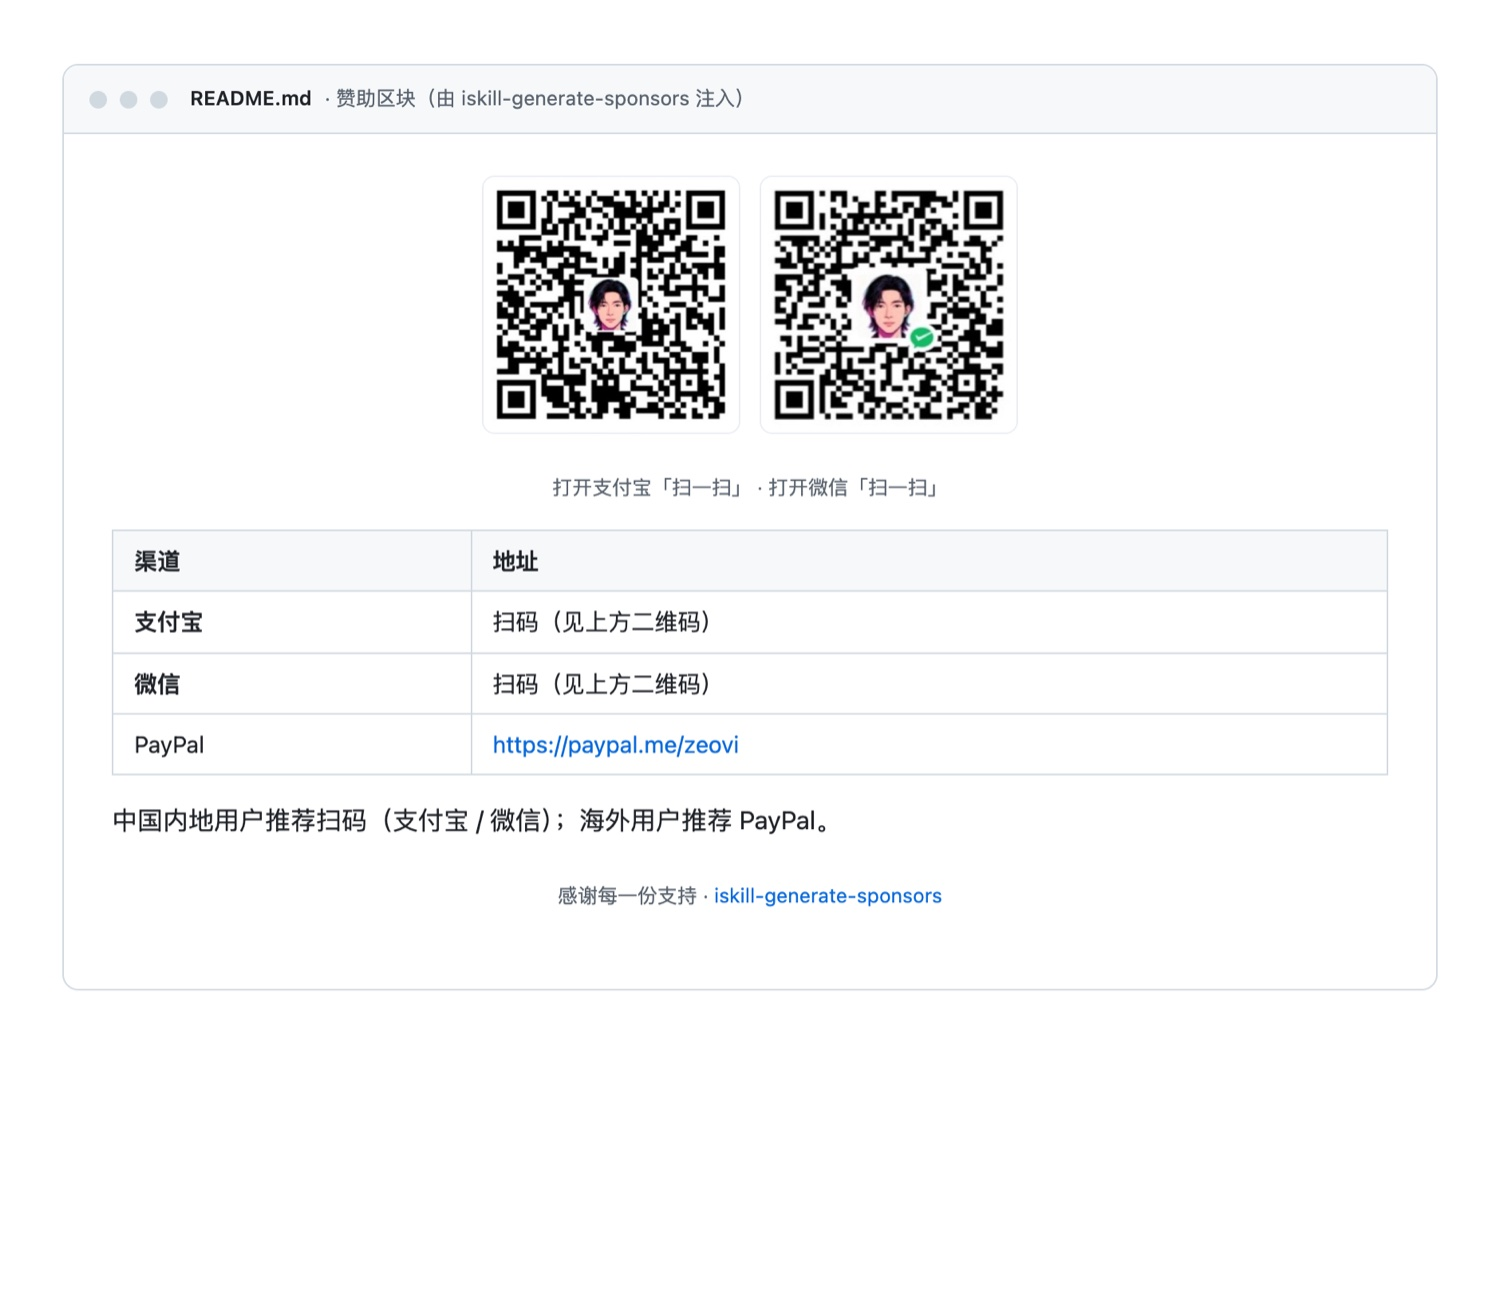
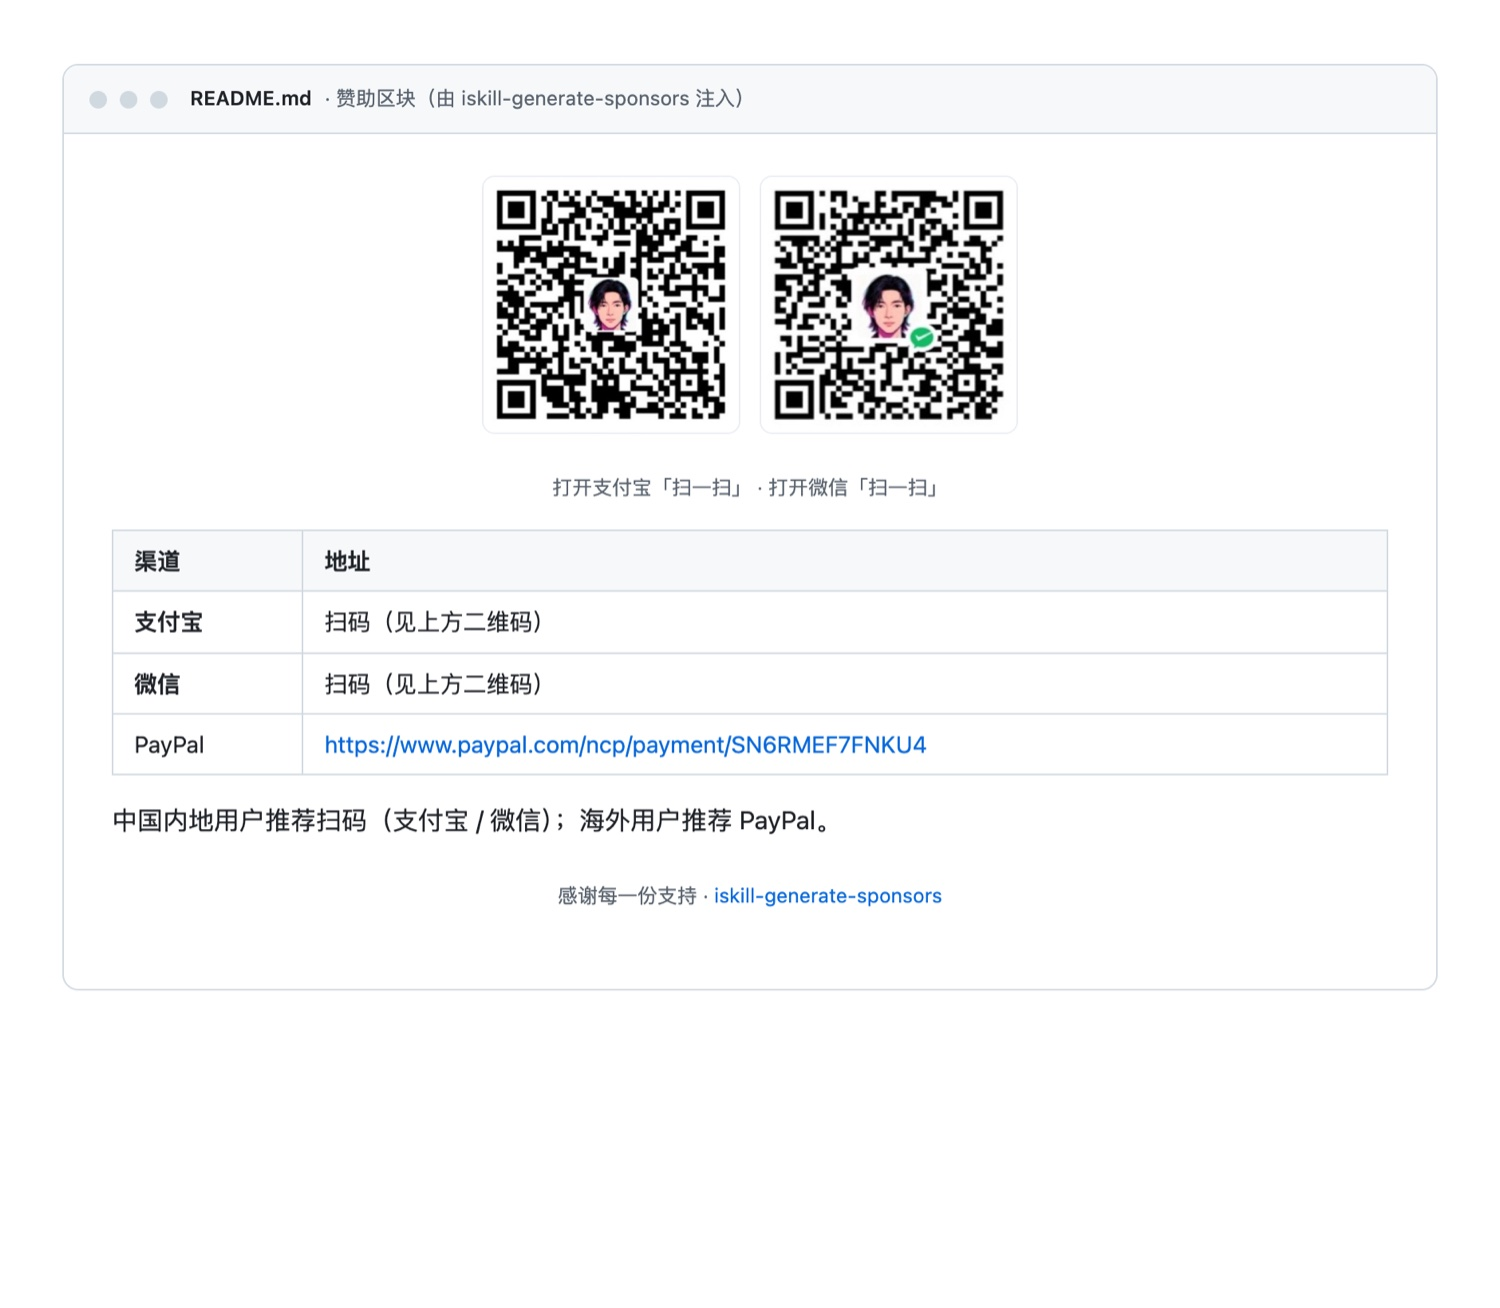
feat: PayPal 默认链接换为 paypal.com/ncp 收款页（链接卡本就 target=_blank 新窗口打开）；make-samples 样本图迁回 promo-page/assets、shoot.mjs agent-browser 探测补 PATH/版本目录兜底

Changed region(s): [[0.2147, 0.3976, 0.6133, 0.581]]

diff --git a/promo-page/sponsors.html b/promo-page/sponsors.html
@@ -351,13 +351,13 @@ body{
         </button>
       </figure>
 
-        <a class="link" style="--accent:#0070BA" href="https://paypal.me/zeovi" target="_blank" rel="noopener noreferrer">
+        <a class="link" style="--accent:#0070BA" href="https://www.paypal.com/ncp/payment/SN6RMEF7FNKU4" target="_blank" rel="noopener noreferrer">
           <div class="card-head">
             <span class="chip"><svg viewBox="0 0 24 24" fill="none" stroke="currentColor" stroke-width="1.8" stroke-linecap="round" stroke-linejoin="round"><path d="M14 4h6v6"/><path d="M20 4l-8.5 8.5"/><path d="M18 14.5V19a1.5 1.5 0 0 1-1.5 1.5H5A1.5 1.5 0 0 1 3.5 19V7.5A1.5 1.5 0 0 1 5 6h4.5"/></svg><span>PayPal</span></span>
           </div>
           <span class="link-body">
             <span class="link-name">PayPal</span>
-            <span class="link-sub">paypal.me/zeovi</span>
+            <span class="link-sub">www.paypal.com/ncp/payment/SN6RMEF7FNKU4</span>
           </span>
         </a>
   </section>
@@ -375,7 +375,7 @@ body{
     </button>
   </section>
 
-  <footer class="foot" data-slot="foot">由 <a href="https://github.com/aispin/iskill-generate-sponsors" target="_blank" rel="noopener noreferrer">iskill-generate-sponsors</a> 生成 · 2026-10-02</footer>
+  <footer class="foot" data-slot="foot">由 <a href="https://github.com/aispin/iskill-generate-sponsors" target="_blank" rel="noopener noreferrer">iskill-generate-sponsors</a> 生成 · 2026-10-08</footer>
 </main>
 
 <div class="pop" hidden role="dialog" aria-modal="true">
@@ -408,13 +408,13 @@ body{
         </button>
       </figure>
 
-        <a class="link" style="--accent:#0070BA" href="https://paypal.me/zeovi" target="_blank" rel="noopener noreferrer">
+        <a class="link" style="--accent:#0070BA" href="https://www.paypal.com/ncp/payment/SN6RMEF7FNKU4" target="_blank" rel="noopener noreferrer">
           <div class="card-head">
             <span class="chip"><svg viewBox="0 0 24 24" fill="none" stroke="currentColor" stroke-width="1.8" stroke-linecap="round" stroke-linejoin="round"><path d="M14 4h6v6"/><path d="M20 4l-8.5 8.5"/><path d="M18 14.5V19a1.5 1.5 0 0 1-1.5 1.5H5A1.5 1.5 0 0 1 3.5 19V7.5A1.5 1.5 0 0 1 5 6h4.5"/></svg><span>PayPal</span></span>
           </div>
           <span class="link-body">
             <span class="link-name">PayPal</span>
-            <span class="link-sub">paypal.me/zeovi</span>
+            <span class="link-sub">www.paypal.com/ncp/payment/SN6RMEF7FNKU4</span>
           </span>
         </a>
     </section>
@@ -430,7 +430,7 @@ body{
 </div>
 
 <script>
-var SPONSOR = {"defaultLang":"zh","langs":["zh","en"],"title":{"zh":"赞助支持 · iskill-generate-sponsors","en":"Sponsor · iskill-generate-sponsors"},"tagline":{"zh":"如果这个技能帮你省下了时间，可以请我喝杯咖啡 ☕","en":"If this skill saved you some time, you can buy me a coffee ☕"},"note":{"zh":"中国内地用户推荐扫码（支付宝 / 微信）；海外用户推荐 PayPal。","en":"Scan the QR codes if you are in mainland China (Alipay / WeChat); PayPal is easier overseas."},"foot":{"zh":"由 <a href=\"https://github.com/aispin/iskill-generate-sponsors\" target=\"_blank\" rel=\"noopener noreferrer\">iskill-generate-sponsors<\/a> 生成 · 2026-10-02","en":"Generated by <a href=\"https://github.com/aispin/iskill-generate-sponsors\" target=\"_blank\" rel=\"noopener noreferrer\">iskill-generate-sponsors<\/a> · 2026-10-02"},"generatedAt":"2026-10-02","generator":{"name":"iskill-generate-sponsors","url":"https://github.com/aispin/iskill-generate-sponsors"},"ui":{"zh":{"badge":"赞助支持","hint":"点击放大","linksTitle":"其他支持方式","altOf":"{x}收款码","zoomOf":"放大{x}收款码","themeAria":"切换深色 / 浅色","langAria":"切换中文 / English","closeAria":"关闭放大图","popAria":"打开赞助弹窗","popCloseAria":"关闭赞助弹窗","popSecTitle":"也可以点开看","popSecHint":"点下面的按钮，全部赞助方式会在弹层里重新排一遍。","langShort":"EN","empty":"还没有配置外部赞助链接。加一个 <code>--paypal https://paypal.me/你的名字<\/code> 再来一次。"},"en":{"badge":"SPONSOR","hint":"Tap to enlarge","linksTitle":"Other ways to support","altOf":"{x} QR code","zoomOf":"Enlarge the {x} QR code","themeAria":"Toggle dark / light mode","langAria":"Switch between 中文 / English","closeAria":"Close","popAria":"Open sponsor popup","popCloseAria":"Close sponsor popup","popSecTitle":"Prefer a popup?","popSecHint":"Tap the button below to see every option in a focused overlay.","langShort":"中","empty":"No external sponsor links yet. Add one with <code>--paypal https://paypal.me/yourname<\/code>, then re-run."}},"qr":[{"key":"alipay","src":"assets/sponsor/alipay.jpg","accent":"#1677FF","label":{"zh":"支付宝","en":"Alipay"},"tip":{"zh":"打开支付宝「扫一扫」","en":"Scan with Alipay"}},{"key":"wechat","src":"assets/sponsor/wechat.jpg","accent":"#07C160","label":{"zh":"微信","en":"WeChat"},"tip":{"zh":"打开微信「扫一扫」","en":"Scan with WeChat"}}],"links":[{"label":"PayPal","sub":"paypal.me/zeovi","url":"https://paypal.me/zeovi","accent":"#0070BA"}]};
+var SPONSOR = {"defaultLang":"zh","langs":["zh","en"],"title":{"zh":"赞助支持 · iskill-generate-sponsors","en":"Sponsor · iskill-generate-sponsors"},"tagline":{"zh":"如果这个技能帮你省下了时间，可以请我喝杯咖啡 ☕","en":"If this skill saved you some time, you can buy me a coffee ☕"},"note":{"zh":"中国内地用户推荐扫码（支付宝 / 微信）；海外用户推荐 PayPal。","en":"Scan the QR codes if you are in mainland China (Alipay / WeChat); PayPal is easier overseas."},"foot":{"zh":"由 <a href=\"https://github.com/aispin/iskill-generate-sponsors\" target=\"_blank\" rel=\"noopener noreferrer\">iskill-generate-sponsors<\/a> 生成 · 2026-10-08","en":"Generated by <a href=\"https://github.com/aispin/iskill-generate-sponsors\" target=\"_blank\" rel=\"noopener noreferrer\">iskill-generate-sponsors<\/a> · 2026-10-08"},"generatedAt":"2026-10-08","generator":{"name":"iskill-generate-sponsors","url":"https://github.com/aispin/iskill-generate-sponsors"},"ui":{"zh":{"badge":"赞助支持","hint":"点击放大","linksTitle":"其他支持方式","altOf":"{x}收款码","zoomOf":"放大{x}收款码","themeAria":"切换深色 / 浅色","langAria":"切换中文 / English","closeAria":"关闭放大图","popAria":"打开赞助弹窗","popCloseAria":"关闭赞助弹窗","popSecTitle":"也可以点开看","popSecHint":"点下面的按钮，全部赞助方式会在弹层里重新排一遍。","langShort":"EN","empty":"还没有配置外部赞助链接。加一个 <code>--paypal https://paypal.me/你的名字<\/code> 再来一次。"},"en":{"badge":"SPONSOR","hint":"Tap to enlarge","linksTitle":"Other ways to support","altOf":"{x} QR code","zoomOf":"Enlarge the {x} QR code","themeAria":"Toggle dark / light mode","langAria":"Switch between 中文 / English","closeAria":"Close","popAria":"Open sponsor popup","popCloseAria":"Close sponsor popup","popSecTitle":"Prefer a popup?","popSecHint":"Tap the button below to see every option in a focused overlay.","langShort":"中","empty":"No external sponsor links yet. Add one with <code>--paypal https://paypal.me/yourname<\/code>, then re-run."}},"qr":[{"key":"alipay","src":"assets/sponsor/alipay.jpg","accent":"#1677FF","label":{"zh":"支付宝","en":"Alipay"},"tip":{"zh":"打开支付宝「扫一扫」","en":"Scan with Alipay"}},{"key":"wechat","src":"assets/sponsor/wechat.jpg","accent":"#07C160","label":{"zh":"微信","en":"WeChat"},"tip":{"zh":"打开微信「扫一扫」","en":"Scan with WeChat"}}],"links":[{"label":"PayPal","sub":"www.paypal.com/ncp/payment/SN6RMEF7FNKU4","url":"https://www.paypal.com/ncp/payment/SN6RMEF7FNKU4","accent":"#0070BA"}]};
 (function () {
   var root = document.documentElement;
   var lb = document.querySelector('.lightbox');

diff --git a/promo-page/usage.html b/promo-page/usage.html
@@ -202,7 +202,7 @@ body.wrap-code .view code{white-space:pre-wrap;overflow-wrap:anywhere}
       </button>
     </header>
     <p class="meta">
-      <span data-zh="更新于" data-en="Generated">更新于</span> 2026-10-02 02:12:16
+      <span data-zh="更新于" data-en="Generated">更新于</span> 2026-10-08 22:04:13
       · <span data-zh="图片在" data-en="Images in">图片在</span> <code>.github/sponsor/</code>
       · <span data-zh="公开预览页" data-en="Public page">公开预览页</span> <a href="sponsors.html">sponsors.html</a>
       · <a href="https://github.com/aispin/iskill-generate-sponsors" target="_blank" rel="noopener noreferrer"><span data-zh="GitHub 仓库" data-en="GitHub repo">GitHub 仓库</span> ↗</a>
@@ -255,7 +255,7 @@ body.wrap-code .view code{white-space:pre-wrap;overflow-wrap:anywhere}
 | --- | --- |
 | **支付宝** | 扫码（见上方二维码） |
 | **微信** | 扫码（见上方二维码） |
-| PayPal | [https://paypal.me/zeovi](https://paypal.me/zeovi) |
+| PayPal | [https://www.paypal.com/ncp/payment/SN6RMEF7FNKU4](https://www.paypal.com/ncp/payment/SN6RMEF7FNKU4) |
 
 中国内地用户推荐扫码（支付宝 / 微信）；海外用户推荐 PayPal。
 
@@ -279,7 +279,7 @@ body.wrap-code .view code{white-space:pre-wrap;overflow-wrap:anywhere}
 # 提交后仓库页右上会出现 Sponsor 按钮。
 
 custom:
-  - "https://paypal.me/zeovi"
+  - "https://www.paypal.com/ncp/payment/SN6RMEF7FNKU4"
 
 # 微信 / 支付宝等扫码收款码不是 GitHub 支持的平台，无法直接配置。
 # 它们已内联展示在 README 的赞助区块，图片在 .github/sponsor/
@@ -314,7 +314,7 @@ custom:
 | --- | --- |
 | **支付宝** | 扫码（见上方二维码） |
 | **微信** | 扫码（见上方二维码） |
-| PayPal | [https://paypal.me/zeovi](https://paypal.me/zeovi) |
+| PayPal | [https://www.paypal.com/ncp/payment/SN6RMEF7FNKU4](https://www.paypal.com/ncp/payment/SN6RMEF7FNKU4) |
 
 中国内地用户推荐扫码（支付宝 / 微信）；海外用户推荐 PayPal。
 
@@ -339,7 +339,7 @@ custom:
 # 提交后仓库页右上会出现 Sponsor 按钮。
 
 custom:
-  - "https://paypal.me/zeovi"
+  - "https://www.paypal.com/ncp/payment/SN6RMEF7FNKU4"
 
 # 微信 / 支付宝等扫码收款码不是 GitHub 支持的平台，无法直接配置。
 # 它们已内联展示在 README 的赞助区块，图片在 .github/sponsor/
@@ -396,10 +396,10 @@ export const SPONSOR_DATA = {
     "en": "Scan the QR codes if you are in mainland China (Alipay / WeChat); PayPal is easier overseas."
   },
   "foot": {
-    "zh": "由 &lt;a href=\"https://github.com/aispin/iskill-generate-sponsors\" target=\"_blank\" rel=\"noopener noreferrer\">iskill-generate-sponsors&lt;/a> 生成 · 2026-10-02",
-    "en": "Generated by &lt;a href=\"https://github.com/aispin/iskill-generate-sponsors\" target=\"_blank\" rel=\"noopener noreferrer\">iskill-generate-sponsors&lt;/a> · 2026-10-02"
+    "zh": "由 &lt;a href=\"https://github.com/aispin/iskill-generate-sponsors\" target=\"_blank\" rel=\"noopener noreferrer\">iskill-generate-sponsors&lt;/a> 生成 · 2026-10-08",
+    "en": "Generated by &lt;a href=\"https://github.com/aispin/iskill-generate-sponsors\" target=\"_blank\" rel=\"noopener noreferrer\">iskill-generate-sponsors&lt;/a> · 2026-10-08"
   },
-  "generatedAt": "2026-10-02",
+  "generatedAt": "2026-10-08",
   "generator": {
     "name": "iskill-generate-sponsors",
     "url": "https://github.com/aispin/iskill-generate-sponsors"
@@ -469,8 +469,8 @@ export const SPONSOR_DATA = {
   "links": [
     {
       "label": "PayPal",
-      "sub": "paypal.me/zeovi",
-      "url": "https://paypal.me/zeovi",
+      "sub": "www.paypal.com/ncp/payment/SN6RMEF7FNKU4",
+      "url": "https://www.paypal.com/ncp/payment/SN6RMEF7FNKU4",
       "accent": "#0070BA"
     }
   ]
@@ -994,10 +994,10 @@ const SPONSOR_DATA = {
     "en": "Scan the QR codes if you are in mainland China (Alipay / WeChat); PayPal is easier overseas."
   },
   "foot": {
-    "zh": "由 &lt;a href=\"https://github.com/aispin/iskill-generate-sponsors\" target=\"_blank\" rel=\"noopener noreferrer\">iskill-generate-sponsors&lt;/a> 生成 · 2026-10-02",
-    "en": "Generated by &lt;a href=\"https://github.com/aispin/iskill-generate-sponsors\" target=\"_blank\" rel=\"noopener noreferrer\">iskill-generate-sponsors&lt;/a> · 2026-10-02"
+    "zh": "由 &lt;a href=\"https://github.com/aispin/iskill-generate-sponsors\" target=\"_blank\" rel=\"noopener noreferrer\">iskill-generate-sponsors&lt;/a> 生成 · 2026-10-08",
+    "en": "Generated by &lt;a href=\"https://github.com/aispin/iskill-generate-sponsors\" target=\"_blank\" rel=\"noopener noreferrer\">iskill-generate-sponsors&lt;/a> · 2026-10-08"
   },
-  "generatedAt": "2026-10-02",
+  "generatedAt": "2026-10-08",
   "generator": {
     "name": "iskill-generate-sponsors",
     "url": "https://github.com/aispin/iskill-generate-sponsors"
@@ -1067,8 +1067,8 @@ const SPONSOR_DATA = {
   "links": [
     {
       "label": "PayPal",
-      "sub": "paypal.me/zeovi",
-      "url": "https://paypal.me/zeovi",
+      "sub": "www.paypal.com/ncp/payment/SN6RMEF7FNKU4",
+      "url": "https://www.paypal.com/ncp/payment/SN6RMEF7FNKU4",
       "accent": "#0070BA"
     }
   ]

diff --git a/promo-page/SponsorCard.jsx b/promo-page/SponsorCard.jsx
@@ -34,10 +34,10 @@ export const SPONSOR_DATA = {
     "en": "Scan the QR codes if you are in mainland China (Alipay / WeChat); PayPal is easier overseas."
   },
   "foot": {
-    "zh": "由 <a href=\"https://github.com/aispin/iskill-generate-sponsors\" target=\"_blank\" rel=\"noopener noreferrer\">iskill-generate-sponsors</a> 生成 · 2026-10-02",
-    "en": "Generated by <a href=\"https://github.com/aispin/iskill-generate-sponsors\" target=\"_blank\" rel=\"noopener noreferrer\">iskill-generate-sponsors</a> · 2026-10-02"
+    "zh": "由 <a href=\"https://github.com/aispin/iskill-generate-sponsors\" target=\"_blank\" rel=\"noopener noreferrer\">iskill-generate-sponsors</a> 生成 · 2026-10-08",
+    "en": "Generated by <a href=\"https://github.com/aispin/iskill-generate-sponsors\" target=\"_blank\" rel=\"noopener noreferrer\">iskill-generate-sponsors</a> · 2026-10-08"
   },
-  "generatedAt": "2026-10-02",
+  "generatedAt": "2026-10-08",
   "generator": {
     "name": "iskill-generate-sponsors",
     "url": "https://github.com/aispin/iskill-generate-sponsors"
@@ -107,8 +107,8 @@ export const SPONSOR_DATA = {
   "links": [
     {
       "label": "PayPal",
-      "sub": "paypal.me/zeovi",
-      "url": "https://paypal.me/zeovi",
+      "sub": "www.paypal.com/ncp/payment/SN6RMEF7FNKU4",
+      "url": "https://www.paypal.com/ncp/payment/SN6RMEF7FNKU4",
       "accent": "#0070BA"
     }
   ]

diff --git a/promo-page/SponsorCard.vue b/promo-page/SponsorCard.vue
@@ -128,10 +128,10 @@ const SPONSOR_DATA = {
     "en": "Scan the QR codes if you are in mainland China (Alipay / WeChat); PayPal is easier overseas."
   },
   "foot": {
-    "zh": "由 <a href=\"https://github.com/aispin/iskill-generate-sponsors\" target=\"_blank\" rel=\"noopener noreferrer\">iskill-generate-sponsors</a> 生成 · 2026-10-02",
-    "en": "Generated by <a href=\"https://github.com/aispin/iskill-generate-sponsors\" target=\"_blank\" rel=\"noopener noreferrer\">iskill-generate-sponsors</a> · 2026-10-02"
+    "zh": "由 <a href=\"https://github.com/aispin/iskill-generate-sponsors\" target=\"_blank\" rel=\"noopener noreferrer\">iskill-generate-sponsors</a> 生成 · 2026-10-08",
+    "en": "Generated by <a href=\"https://github.com/aispin/iskill-generate-sponsors\" target=\"_blank\" rel=\"noopener noreferrer\">iskill-generate-sponsors</a> · 2026-10-08"
   },
-  "generatedAt": "2026-10-02",
+  "generatedAt": "2026-10-08",
   "generator": {
     "name": "iskill-generate-sponsors",
     "url": "https://github.com/aispin/iskill-generate-sponsors"
@@ -201,8 +201,8 @@ const SPONSOR_DATA = {
   "links": [
     {
       "label": "PayPal",
-      "sub": "paypal.me/zeovi",
-      "url": "https://paypal.me/zeovi",
+      "sub": "www.paypal.com/ncp/payment/SN6RMEF7FNKU4",
+      "url": "https://www.paypal.com/ncp/payment/SN6RMEF7FNKU4",
       "accent": "#0070BA"
     }
   ]

diff --git a/SKILL.md b/SKILL.md
@@ -10,7 +10,7 @@ agent_created: true
 一张收款码 → 一整套能直接用的赞助页。
 
 ```bash
-bash scripts/make-all.sh --from ~/收款码 --name ZEO --paypal https://paypal.me/zeovi
+bash scripts/make-all.sh --from ~/收款码 --name ZEO --paypal https://www.paypal.com/ncp/payment/SN6RMEF7FNKU4
 ```
 
 产出：`.github/sponsor/*.jpg` · `.github/FUNDING.yml` · `SPONSORS.md` · `sponsors.html`（响应式 + 中英双语）·
@@ -84,7 +84,7 @@ bash scripts/make-all.sh --from ~/收款码 --name ZEO --paypal https://paypal.m
 
 ```bash
 # A. 一把梭：扫描目录，按文件名自动认渠道
-bash scripts/make-all.sh --from ~/收款码 --name ZEO --paypal https://paypal.me/zeovi
+bash scripts/make-all.sh --from ~/收款码 --name ZEO --paypal https://www.paypal.com/ncp/payment/SN6RMEF7FNKU4
 
 # B. 配置驱动（推荐，长期复用；改一次以后重跑就行）
 bash scripts/make-all.sh --config sponsors.config.json --out /path/to/repo
@@ -93,7 +93,7 @@ bash scripts/make-all.sh --config sponsors.config.json --out /path/to/repo
 node scripts/gen-sponsors.mjs \
   --qr "支付宝=~/收款码/alipay.JPG" \
   --qr "微信=~/收款码/wechat.JPG" \
-  --paypal https://paypal.me/zeovi --kofi zeo --out .
+  --paypal https://www.paypal.com/ncp/payment/SN6RMEF7FNKU4 --kofi zeo --out .
 ```
 
 先看看会做什么、不落盘：

diff --git a/reference/funding-yml.md b/reference/funding-yml.md
@@ -40,7 +40,7 @@ custom: ["https://www.paypal.me/octocat", octocat.com]
 
 1. **`custom` 数组里含 `:` 的 URL 必须加引号。**
    写 `- https://paypal.me/x` 在多数 YAML 解析器里能过，但 `https://` 里的 `:` 会踩坑。
-   本技能统一输出 `- "https://paypal.me/zeovi"` 形式，**永远加引号**。
+   本技能统一输出 `- "https://www.paypal.com/ncp/payment/SN6RMEF7FNKU4"` 形式，**永远加引号**。
 
 2. **`custom` 最多 4 条**，超出的会被忽略（本技能会打印警告并截断）。
 
@@ -62,10 +62,10 @@ custom: ["https://www.paypal.me/octocat", octocat.com]
 
 ```bash
 # 只配 custom 一条 PayPal
-node scripts/gen-sponsors.mjs --paypal https://paypal.me/zeovi
+node scripts/gen-sponsors.mjs --paypal https://www.paypal.com/ncp/payment/SN6RMEF7FNKU4
 
 # PayPal 走 custom，Ko-fi / Liberapay 走原生键
-node scripts/gen-sponsors.mjs --paypal https://paypal.me/zeovi --kofi zeo --liberapay zeo
+node scripts/gen-sponsors.mjs --paypal https://www.paypal.com/ncp/payment/SN6RMEF7FNKU4 --kofi zeo --liberapay zeo
 ```
 
 生成的 `FUNDING.yml` 会带注释，末尾额外用注释列出**无法进 FUNDING 的收款码**落在哪，

diff --git a/README.md b/README.md
@@ -12,7 +12,7 @@
 
 ```bash
 # 1) 从收款码目录一把梭（按文件名自动识别支付宝 / 微信 / QQ / 云闪付 / PayPal）
-bash scripts/make-all.sh --from ~/收款码 --name ZEO --paypal https://paypal.me/zeovi
+bash scripts/make-all.sh --from ~/收款码 --name ZEO --paypal https://www.paypal.com/ncp/payment/SN6RMEF7FNKU4
 
 # 2) 配置驱动（推荐，长期复用；本仓库的 sponsors.config.json 可直接抄）
 cp sponsors.config.json my.config.json
@@ -65,7 +65,7 @@ Open Collective / Polar / Buy Me a Coffee / IssueHunt / thanks.dev），
 | --- | --- |
 | **支付宝** | 扫码（见上方二维码） |
 | **微信** | 扫码（见上方二维码） |
-| PayPal | [https://paypal.me/zeovi](https://paypal.me/zeovi) |
+| PayPal | [https://www.paypal.com/ncp/payment/SN6RMEF7FNKU4](https://www.paypal.com/ncp/payment/SN6RMEF7FNKU4) |
 
 中国内地用户推荐扫码（支付宝 / 微信）；海外用户推荐 PayPal。
 

diff --git a/SPONSORS.md b/SPONSORS.md
@@ -15,7 +15,7 @@
 | --- | --- |
 | **支付宝** | 扫码（见上方二维码） |
 | **微信** | 扫码（见上方二维码） |
-| PayPal | [https://paypal.me/zeovi](https://paypal.me/zeovi) |
+| PayPal | [https://www.paypal.com/ncp/payment/SN6RMEF7FNKU4](https://www.paypal.com/ncp/payment/SN6RMEF7FNKU4) |
 
 中国内地用户推荐扫码（支付宝 / 微信）；海外用户推荐 PayPal。
 
@@ -40,7 +40,7 @@
 # 提交后仓库页右上会出现 Sponsor 按钮。
 
 custom:
-  - "https://paypal.me/zeovi"
+  - "https://www.paypal.com/ncp/payment/SN6RMEF7FNKU4"
 
 # 微信 / 支付宝等扫码收款码不是 GitHub 支持的平台，无法直接配置。
 # 它们已内联展示在 README 的赞助区块，图片在 .github/sponsor/
